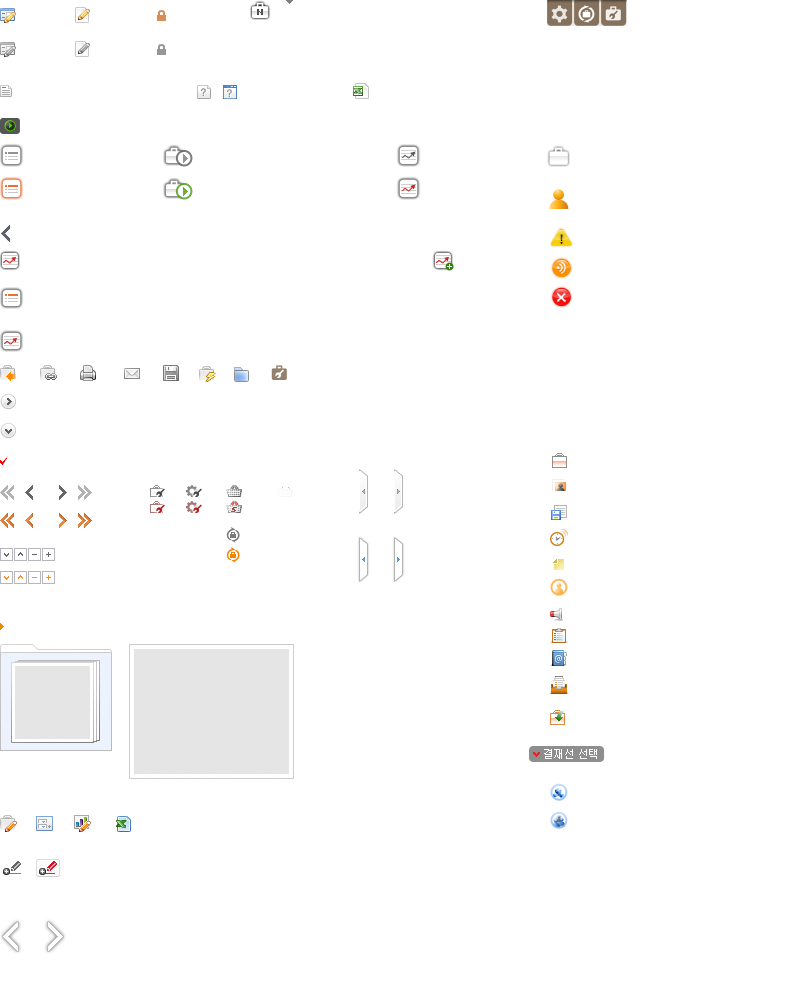
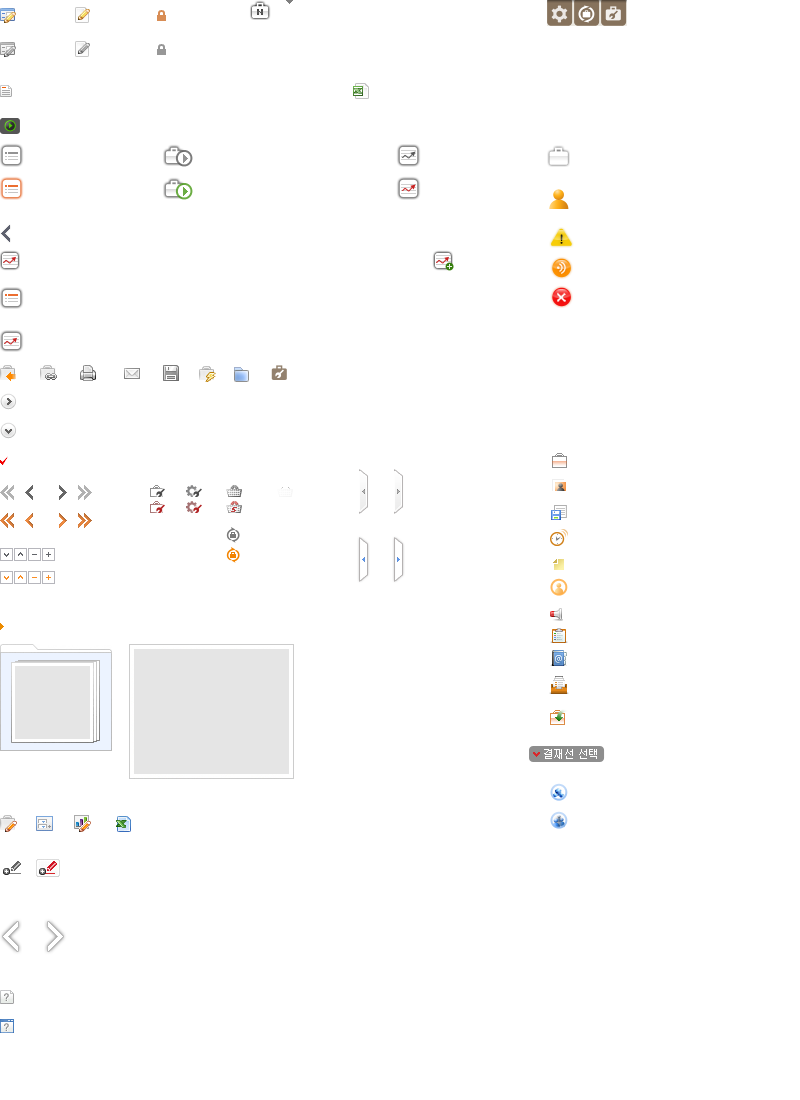
manual.jsp

diff --git a/WebContent/css/black/detail.css b/WebContent/css/black/detail.css
@@ -326,8 +326,8 @@ a:hover.btn_arr_next2 {background: url("../../images/body_icon.png") no-repeat -
 .bu_work_explan {background: url("../../images/body_icon.png") no-repeat scroll 0 -83px transparent; height:16px; display:inline-block; padding: 0 0 0 15px}
  */
 .icon_video_manual {background: url("../../images/body_icon.png") no-repeat scroll 0 -118px transparent; height:16px; display:inline-block}
-.icon_web_manual {background: url("../../images/body_icon.png") no-repeat scroll -223px -85px transparent; height:14px; width:14px; display:inline-block}
-.icon_file_manual {background: url("../../images/body_icon.png") no-repeat scroll -197px -85px transparent; height:14px; width:14px; display:inline-block}
+.icon_web_manual {background: url("../../images/body_icon.png") no-repeat scroll 0 -1019px transparent; height:14px; display: block; line-height: 17px; padding: 0 0 0 18px; float:left}
+.icon_file_manual {background: url("../../images/body_icon.png") no-repeat scroll 0 -989px transparent; height:15px; display: block; line-height: 17px; padding: 0 0 0 18px; float:left}
 .icon_btn_newwork {background: url("../../images/body_icon.png") no-repeat scroll -249px 0 transparent; height:20px; display:inline-block; padding: 0 0 0 24px}
 .icon_btn_arrb {background: url("../../images/body_icon.png") no-repeat scroll -286px 0 transparent; height:4px; display:inline-block}
 .icon_btn_stat {background: url("../../images/body_icon.png") no-repeat scroll 0 -251px transparent; height:21px; display:inline-block; padding: 0 0 0 24px}
